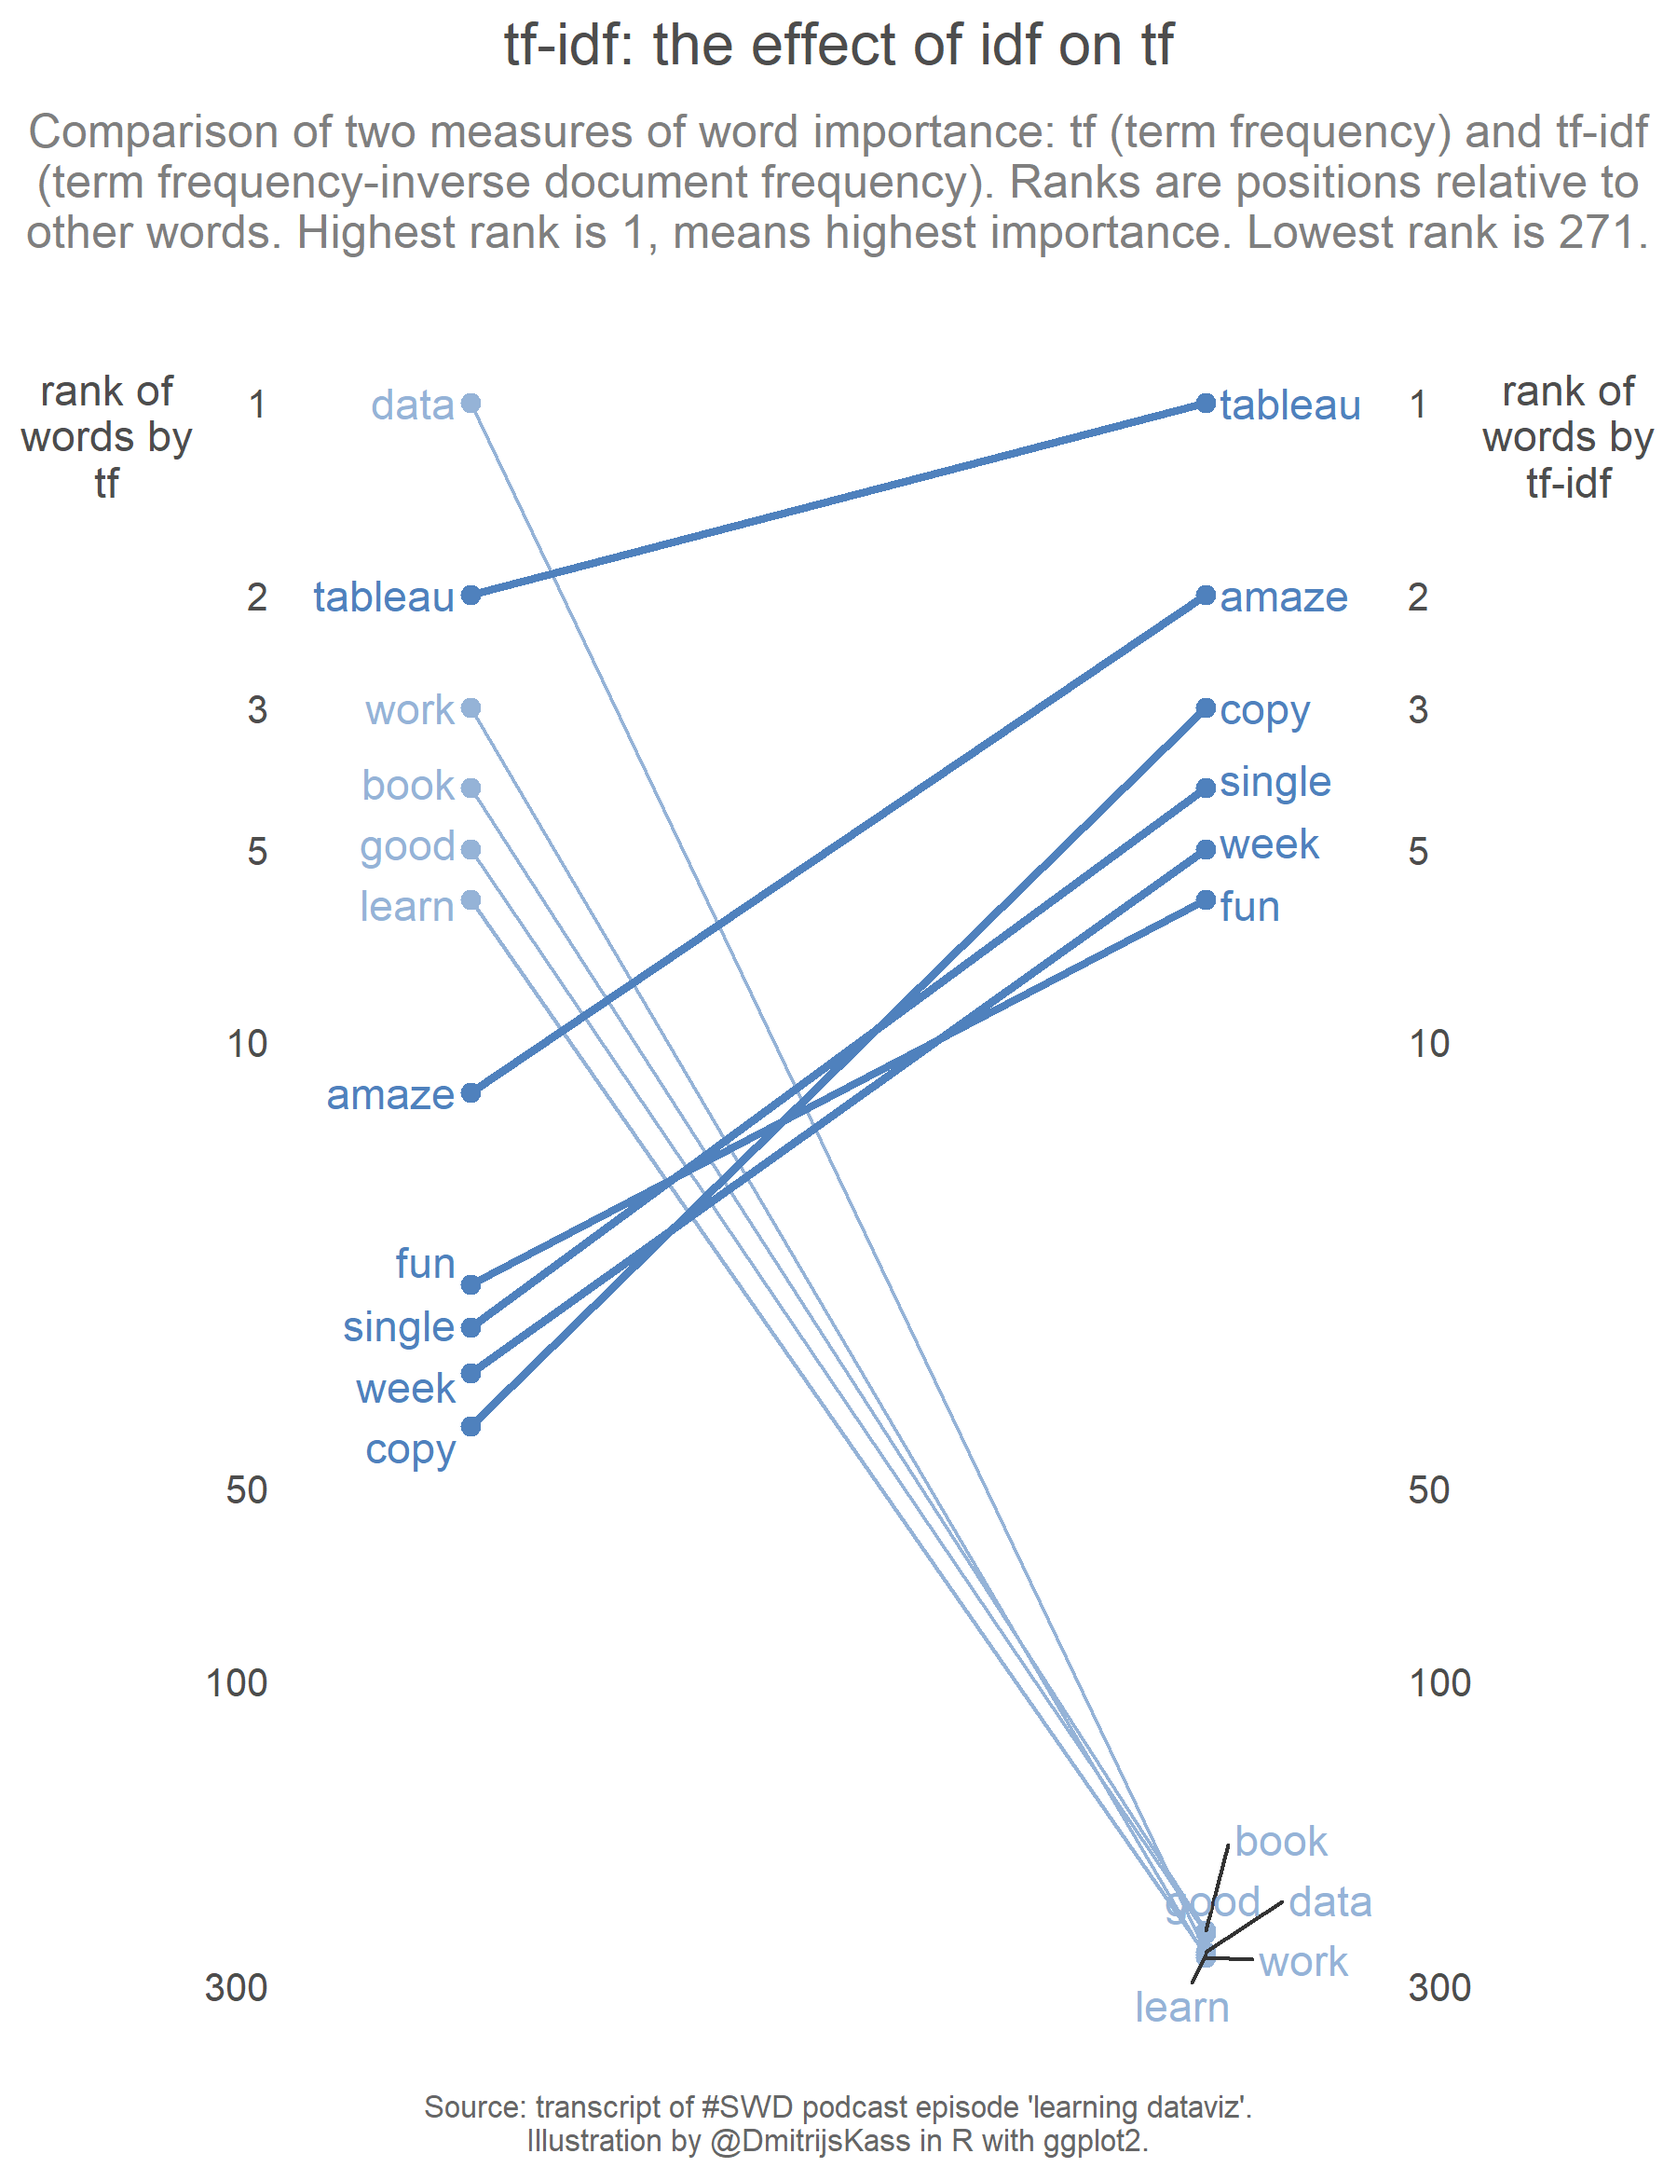
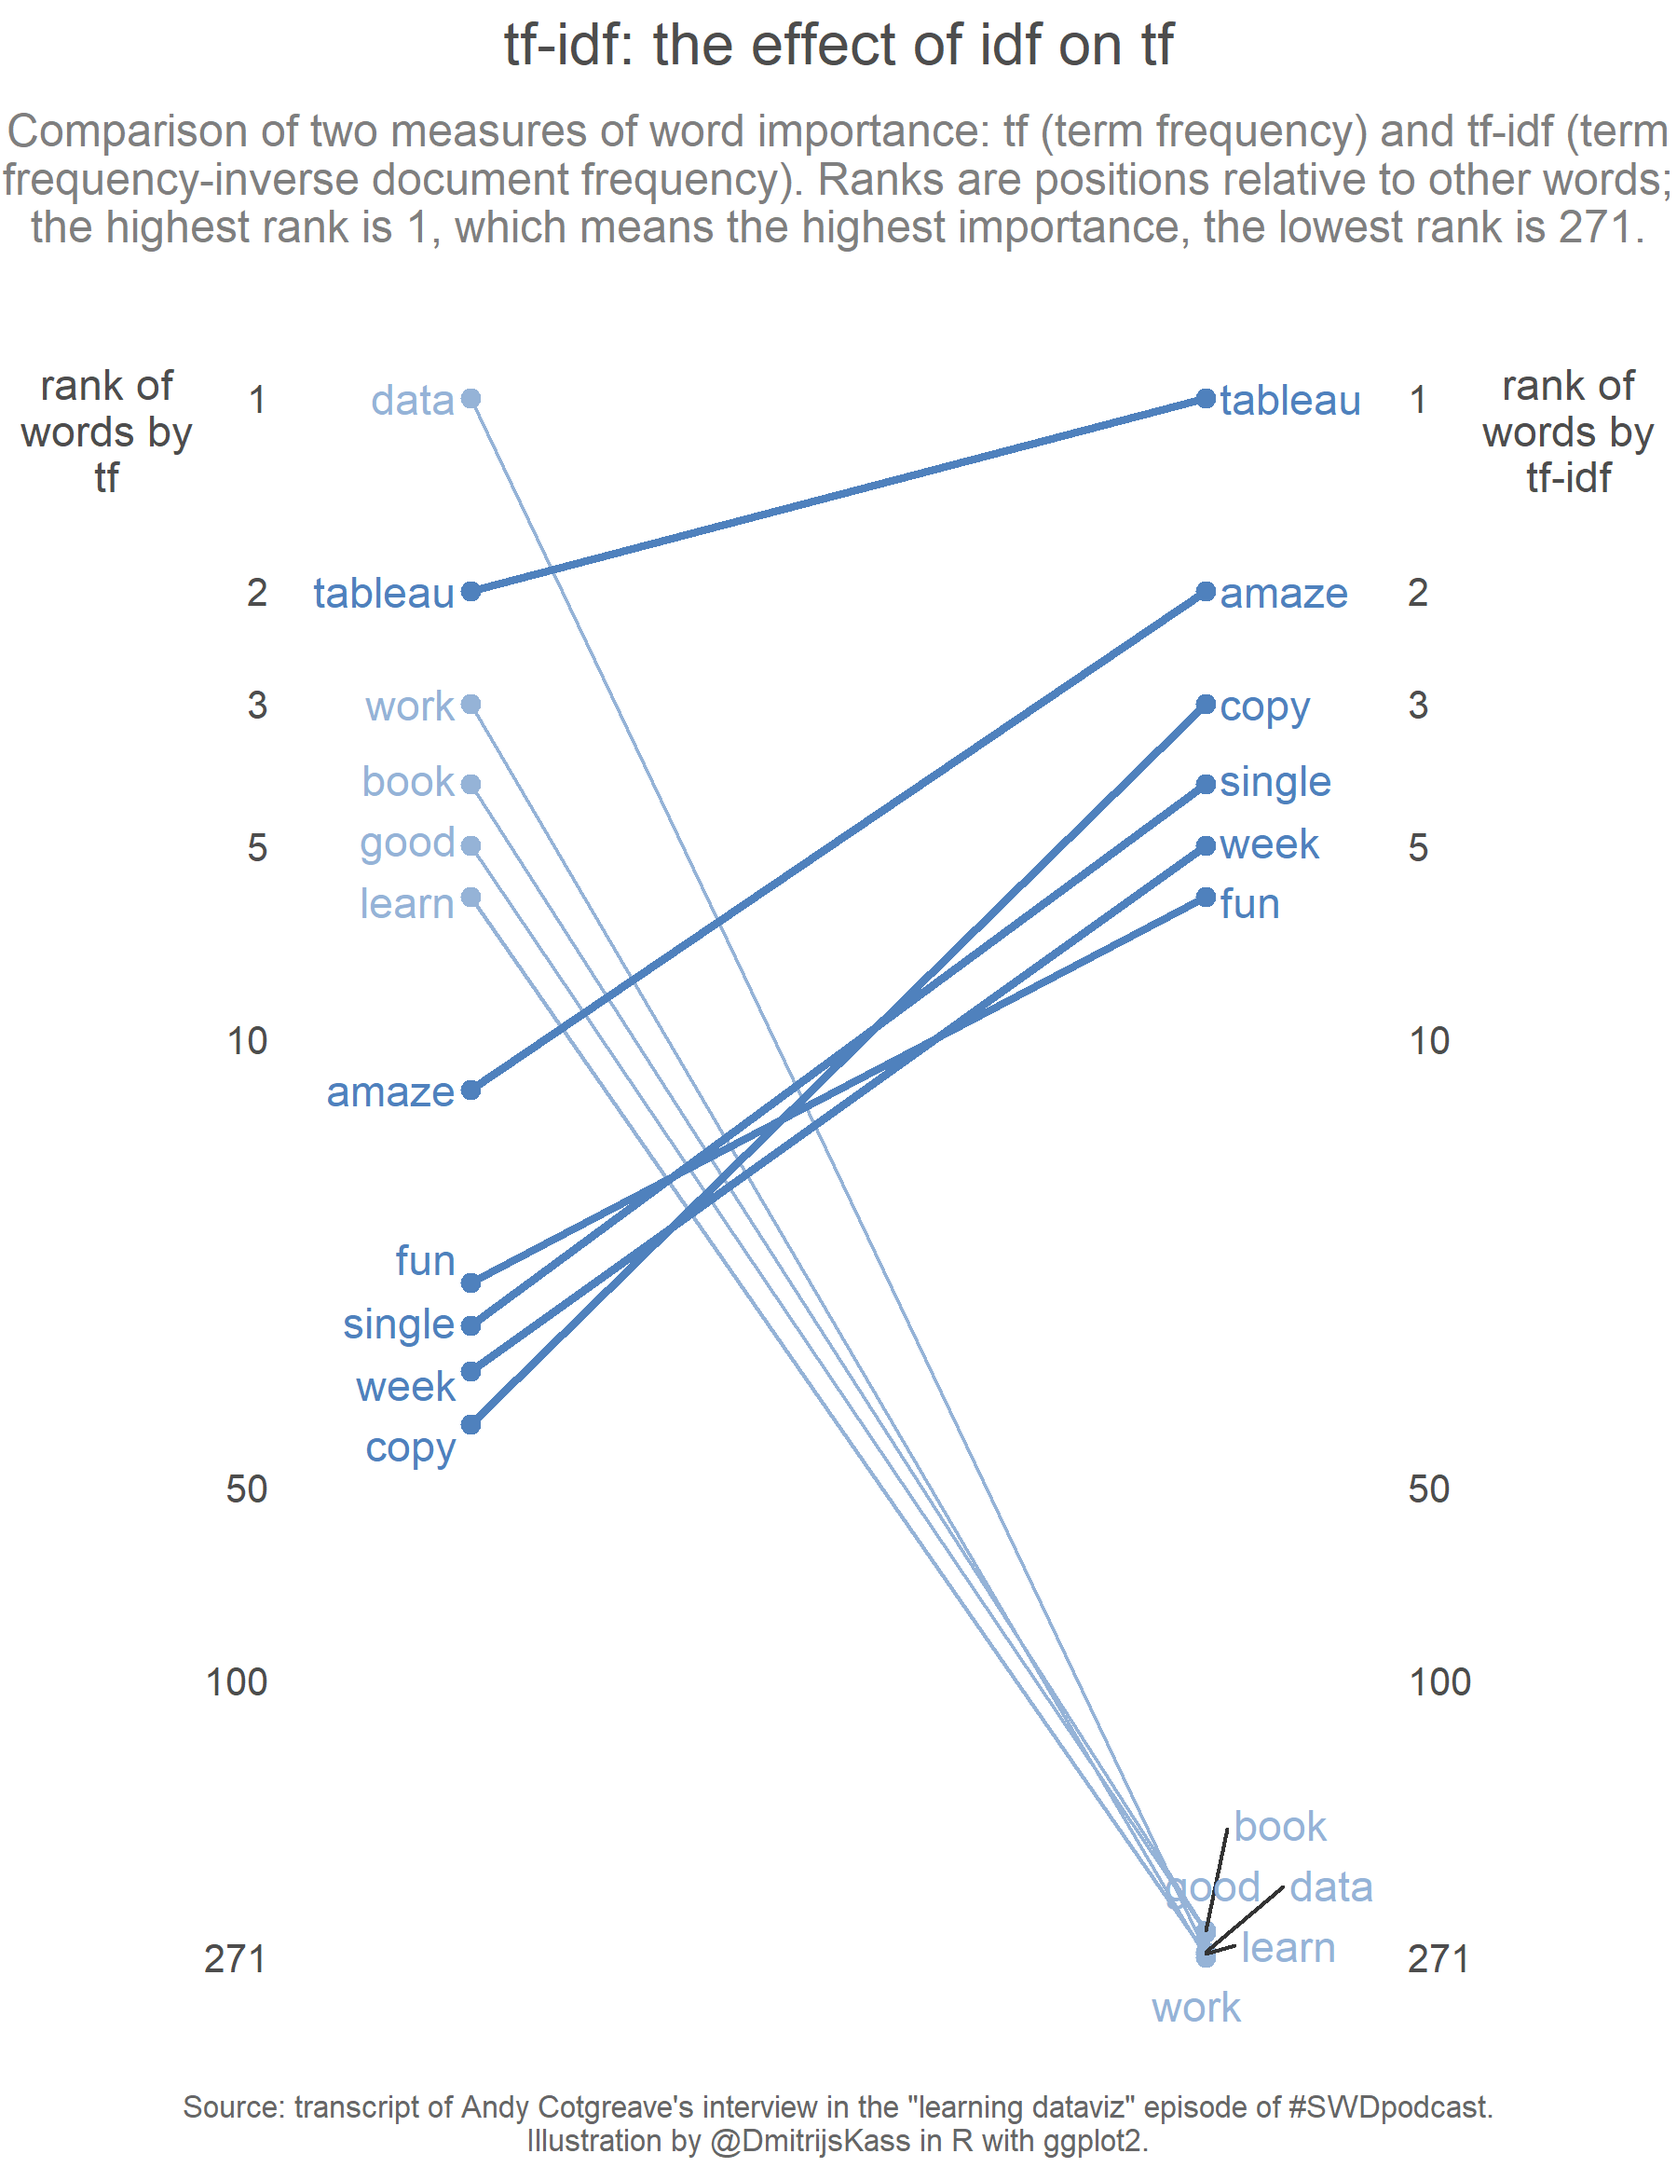
Proofreading corrections.

diff --git a/content/post/2019-05-08-swdchallenge-artisanal-data.html b/content/post/2019-05-08-swdchallenge-artisanal-data.html
@@ -25,8 +25,8 @@ output:
 <p>This post is a participation in <a href="http://www.storytellingwithdata.com/blog/2019/5/1/swdchallenge-artisanal-data">#SWDchallenge: artisanal data</a>. Along with that it <strong>visualizes two common measures of word importance: tf and tf-idf</strong>. Variations of tf-idf, term frequency-inverse document frequency, are often used by search engines and text-based recommender systems.</p>
 <hr />
 <p>I use the <a href="https://docs.google.com/document/d/1S2_63MUbvQs7fxWQrcuCNSl03fmDl1Vr3FjNjnbWK14/edit#">transcript</a> of the “learning dataviz” episode of <a href="http://www.storytellingwithdata.com/podcast">#SWDpodcast</a>, where 12 data visualization professionals share their stories and recommendations.</p>
-<p>I find a lot of wisdom and inspiration in this episode. <a href="http://www.storytellingwithdata.com/book">Storytelling with Data</a> (SWD) book has been on my shelf for over a year and it is this podcast episode that sparkled interest in me about data visualization and made me read the book in few days and start participating in data viz challenges. So I thought I would enjoy spending more time with this episode by analysing the words in it.</p>
-<p>Analysis is performed in <a href="https://www.r-project.org/">R</a>, a free software environment for statistical computing and graphics, mainly using the <a href="https://www.tidyverse.org/">tidyverse</a> packages, including <a href="https://ggplot2.tidyverse.org/">ggplot2</a> for visualization.</p>
+<p>I find a lot of wisdom and inspiration in this episode. <a href="http://www.storytellingwithdata.com/book">The Storytelling with Data</a> (SWD) book has been on my shelf for over a year and it is this podcast episode that sparked an interest in me about data visualization and inspired me to read the book in a few days and start participating in data viz challenges. So I thought I would enjoy spending more time with this episode by analysing the words in it.</p>
+<p>The analysis was performed in <a href="https://www.r-project.org/">R</a>, a free software environment for statistical computing and graphics, mainly using the <a href="https://www.tidyverse.org/">tidyverse</a> packages, including <a href="https://ggplot2.tidyverse.org/">ggplot2</a> for visualization.</p>
 <div id="text-cleaning" class="section level1">
 <h1>text cleaning</h1>
 <p>Text cleaning involves five steps:</p>
@@ -64,7 +64,7 @@ example</code></pre>
 <div id="about-tf-idf" class="section level1">
 <h1>about tf-idf</h1>
 <p>If you are already familiar with tf (term frequency), idf (inverse document frequency) and tf-idf (term frequency-inverse document frequency) then you may skip this section and go directly to the <a href="#tfidf">visual comparison of these two measures of word importance</a>.</p>
-<p>Few definitions. Here,</p>
+<p>Few definitions in the context of this analysis:</p>
 <ul>
 <li><em>term</em> is a single word (in general, a term may be a combination of two words, a sentence, etc.)</li>
 <li><em>document</em> is an interview - any single interview from the “learning dataviz” episode.</li>
@@ -75,28 +75,28 @@ example</code></pre>
 <p>For example, if the word “learn” is used 8 times and the interview contains 540 words then</p>
 <p><span class="math display">\[\text{tf}(learn)=8/540\approx0.015.\]</span></p>
 <p>When used to measure word importance, the shortcoming of tf is that it is calculated using a single document in isolation from other documents in the collection. Notice that a word’s tf may be different for each document within a collection.</p>
-<p><strong>Inverse document frequency (idf)</strong> measures how important a term is in the context of other documents. Idf is computed as the logarithm of the number of the documents in the collection divided by the number of documents where the specific term appears:</p>
+<p><strong>Inverse document frequency (idf)</strong> measures how important a term is in the context of other documents. Idf is computed as the logarithm of the number of documents in the collection divided by the number of documents where the specific term appears:</p>
 <p><span class="math display">\[\text{idf}(t) = log_e\left(\frac{\text{Total number of documents}}{\text{Number of documents with term t in it}}\right).\]</span></p>
 <p>Here is the relationship between a number of documents with term <span class="math inline">\(t\)</span> in it and the term’s idf. I assume there are 12 documents in the collection:</p>
 <p><img src="/post/2019-05-08-swdchallenge-artisanal-data_files/figure-html/unnamed-chunk-4-1.png" width="480" style="display: block; margin: auto;" /></p>
-<p>The “learning dataviz” episode of #SWDpodcast is, well, about learning data visualization. Naturally, the word “learn” appears at least once in each of 12 interviews. Does it mean that this word is important? In describing the whole episode - yes. In describing any particular interview from this episode - no, at least in the understanding of idf. Because <em>all</em> interviewees use the word “learn”.</p>
+<p>The “learning dataviz” episode of #SWDpodcast is about learning data visualization. Naturally, the word “learn” appears at least once in each of the 12 interviews. Does it mean that this word is important? In describing the whole episode - yes. In describing any particular interview from this episode - no, at least in the understanding of idf. Because <em>all</em> interviewees use the word “learn”.</p>
 <p>The word “learn” appears in all 12 interviews, so its idf is zero:</p>
 <p><span class="math display">\[\text{idf}(learn)=log_e(12/12)=log_e(1)=0\]</span></p>
-<p>It means that the word “learn” is completely unimportant to describe any specific interview in the context of other 11 interviews. Other words with zero importance here are <em>data, year, make, thing, work</em>.</p>
-<p>Notice that idf of each term is the same for all documents in a collection.</p>
+<p>This means that the word “learn” is completely unimportant to describe any specific interview in the context of the other 11 interviews. Other words with zero importance here are <em>data, year, make, thing, work</em>.</p>
+<p>Notice that the idf of each term is the same for all documents in a collection.</p>
 <p><strong>Term frequency-inverse document frequency (tf-idf)</strong> is a multiplication of tf and idf:</p>
 <p><span class="math display">\[\text{tfidf}(t) = \text{tf}(t) \times \text{idf}(t).\]</span></p>
-<p>It does not matter how high <span class="math inline">\(\text{tf}(learn)\)</span> is, if <span class="math inline">\(\text{idf}(learn)=0\)</span>, the <span class="math inline">\(\text{tfidf}(learn)\)</span> will also be zero. On the contrary, if a word is mentioned only in one interview from 12 then its tf gets multiplied by 2.48. This is what happened to the word “copy”. Its importance rank increased from #40, measured by tf, to #3, measured by tf-idf.</p>
-<p>Tf-idf gives highest weight to words that are “common locally and rare globally”<a href="#fn3" class="footnote-ref" id="fnref3"><sup>3</sup></a>. “Common locally” refers to the tf component, while “rare globally” refers to the idf component.</p>
+<p>It does not matter how high <span class="math inline">\(\text{tf}(learn)\)</span> is, if <span class="math inline">\(\text{idf}(learn)=0\)</span>, the <span class="math inline">\(\text{tfidf}(learn)\)</span> will also be zero. On the contrary, if a word is only mentioned in one interview from 12 then its tf gets multiplied by 2.48. This is what happened to the word “copy”. Its importance rank increased from #40, measured by tf, to #3, measured by tf-idf.</p>
+<p>Tf-idf gives the highest weight to words that are “common locally and rare globally”<a href="#fn3" class="footnote-ref" id="fnref3"><sup>3</sup></a>. “Common locally” refers to the tf component, while “rare globally” refers to the idf component.</p>
 </div>
 <div id="tfidf" class="section level1">
 <h1>tf-idf: the effect of idf on tf visualised</h1>
-<p>Next I use the most important words, as measured by tf and tf-idf, from Andy Cotgreave’s interview in the “learning dataviz” episode of #SWDpodast. The plot below visualises changes in <em>ranks</em> - slopes go from tf ranks on the left to tf-idf ranks on the right. Ranks are positions relative to other words. Highest rank means highest importance. There are 271 unique words, so the lowest possible ranks is 271.</p>
-<p>Tf gives the highest weight to words that are simply used most frequently. It is a local measure in a sense that it ignores other interviews in the same podcast episode.</p>
-<p>Multiplication of tf by idf, which gives tf-idf, diminished the importance of words that are common across all interviews, such as “data” and “learn”. At the same time it amplifies the importance of rare words, such as “copy” and “fun”.</p>
-<p>A word “copy” is used only in Andy’s interview. It is used in the context of recommending Austin Kleon’s book “Steal Like an Artist”. A word “fun” is used only in two more interviews. Andy says <em>“… get out of your comfort zone and have fun. Have fun. My gosh, you are allowed to have fun …”</em>. Let’s do it!</p>
+<p>Next I use the most important words, as measured by tf and tf-idf, from Andy Cotgreave’s interview in the “learning dataviz” episode of #SWDpodcast. The plot below visualises changes in <em>ranks</em> - slopes go from tf ranks on the left to tf-idf ranks on the right. Ranks are positions relative to other words; the highest rank means the highest importance. There are 271 unique words, so the lowest possible rank is 271.</p>
+<p>Tf gives the highest weight to words that are simply used most frequently. It is a local measure in the sense that it ignores other interviews in the same podcast episode.</p>
+<p>Multiplication of tf by idf, which gives tf-idf, diminishes the importance of words that are common across all interviews, such as “data” and “learn”. At the same time it amplifies the importance of rare words, such as “copy” and “fun”.</p>
+<p>The word “copy” is used only in Andy’s interview. It is used in the context of recommending Austin Kleon’s book “Steal Like an Artist”. The word “fun” is used only in two more interviews. Andy says <em>“… get out of your comfort zone and have fun. Have fun. My gosh, you are allowed to have fun …”</em>. Let’s do it!</p>
 <p><img src="/post/2019-05-08-swdchallenge-artisanal-data_files/figure-html/unnamed-chunk-5-1.png" width="576" style="display: block; margin: auto;" /></p>
-<p>Below is the data used for plotting. There are 12 interviews. Andy Cotgreave’s interview contains 540 words, 271 of them unique. There are six words with zero tf-idf (three of them in a table below), they share tf-idf ranks from 266 to 271.</p>
+<p>Below is the data used for plotting. There are 12 interviews. Andy Cotgreave’s interview contains 540 words, 271 of them unique. There are six words with zero tf-idf (three of them in the table below); they share tf-idf ranks from 266 to 271.</p>
 <table>
 <thead>
 <tr>
@@ -463,7 +463,7 @@ copy
 <div class="footnotes">
 <hr />
 <ol>
-<li id="fn1"><p>Stop words from the <a href="http://www.jmlr.org/papers/volume5/lewis04a/lewis04a.pdf">SMART information retrieval system</a> available in <code>tm</code> package served as the basis. They were supplemented with the names of podcast host and guests. One stop word was removed, it is a letter <em>“r”</em>, which is used by one of the podcast guests to refer to R as a software. It is definitely worth knowing prepackaged stop words!<a href="#fnref1" class="footnote-back">↩</a></p></li>
+<li id="fn1"><p>Stop words from the <a href="http://www.jmlr.org/papers/volume5/lewis04a/lewis04a.pdf">SMART information retrieval system</a> available in <code>tm</code> package served as the basis. They were supplemented with the names of podcast host and guests. One stop word was removed; it was the letter <em>“r”</em>, which is used by one of the podcast guests to refer to R as a software. It is definitely worth knowing prepackaged stop words!<a href="#fnref1" class="footnote-back">↩</a></p></li>
 <li id="fn2"><p><a href="http://www.tfidf.com" class="uri">http://www.tfidf.com</a><a href="#fnref2" class="footnote-back">↩</a></p></li>
 <li id="fn3"><p>I heard the phrase “common locally and rare globally” for the first time <a href="https://www.coursera.org/lecture/ml-foundations/calculating-tf-idf-vectors-1rg5n">here</a> and I liked this definition a lot.<a href="#fnref3" class="footnote-back">↩</a></p></li>
 </ol>
